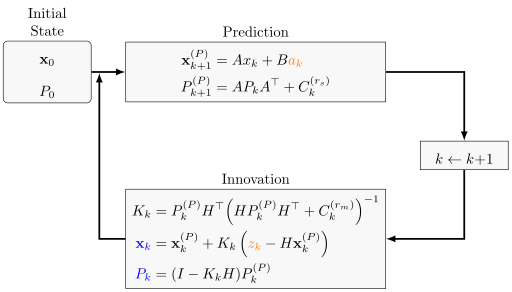
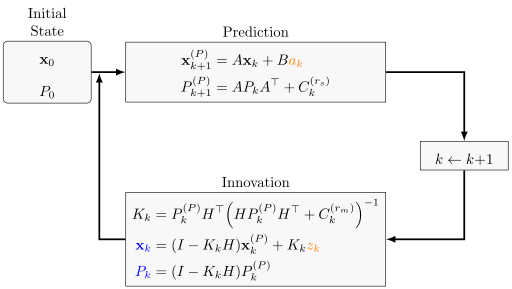
Make Kalman filter formulas more memorizable

diff --git a/tikz/kalman-filter/kalman-filter.tex b/tikz/kalman-filter/kalman-filter.tex
@@ -25,7 +25,7 @@
     \node[block, text width=6cm,
           label={[above,align=center]{Prediction}}] at (4, 0) (prediction)
           {\begin{align*}
-            \mathbf{x}_{k+1}^{(P)} &= A x_k + B {\color{orange} a_k}\\
+            \mathbf{x}_{k+1}^{(P)} &= A \mathbf{x}_k + B {\color{orange} a_k}\\
             P_{k+1}^{(P)} &= A P_k A^\tran + C_k^{(r_s)}
            \end{align*}};
     \node [block, right of=prediction,
@@ -35,7 +35,7 @@
            label={[above,align=center]{Innovation}}] at (4, -4) (innovation)
            {\begin{align*}
               K_k &= P_k^{(P)} H^\tran {\left (H P_k^{(P)} H^\tran + C_k^{(r_m)} \right)}^{-1}\\
-              {\color{blue} \mathbf{x}_k} &= \mathbf{x}_k^{(P)} + K_k \left ({\color{orange} z_k} - H \mathbf{x}_k^{(P)} \right )\\
+              {\color{blue} \mathbf{x}_k} &= (I - K_k H) \mathbf{x}_k^{(P)} + K_k {\color{orange} z_k}\\
               {\color{blue} P_k} &= (I - K_k H) P_k^{(P)}
             \end{align*}};
 
